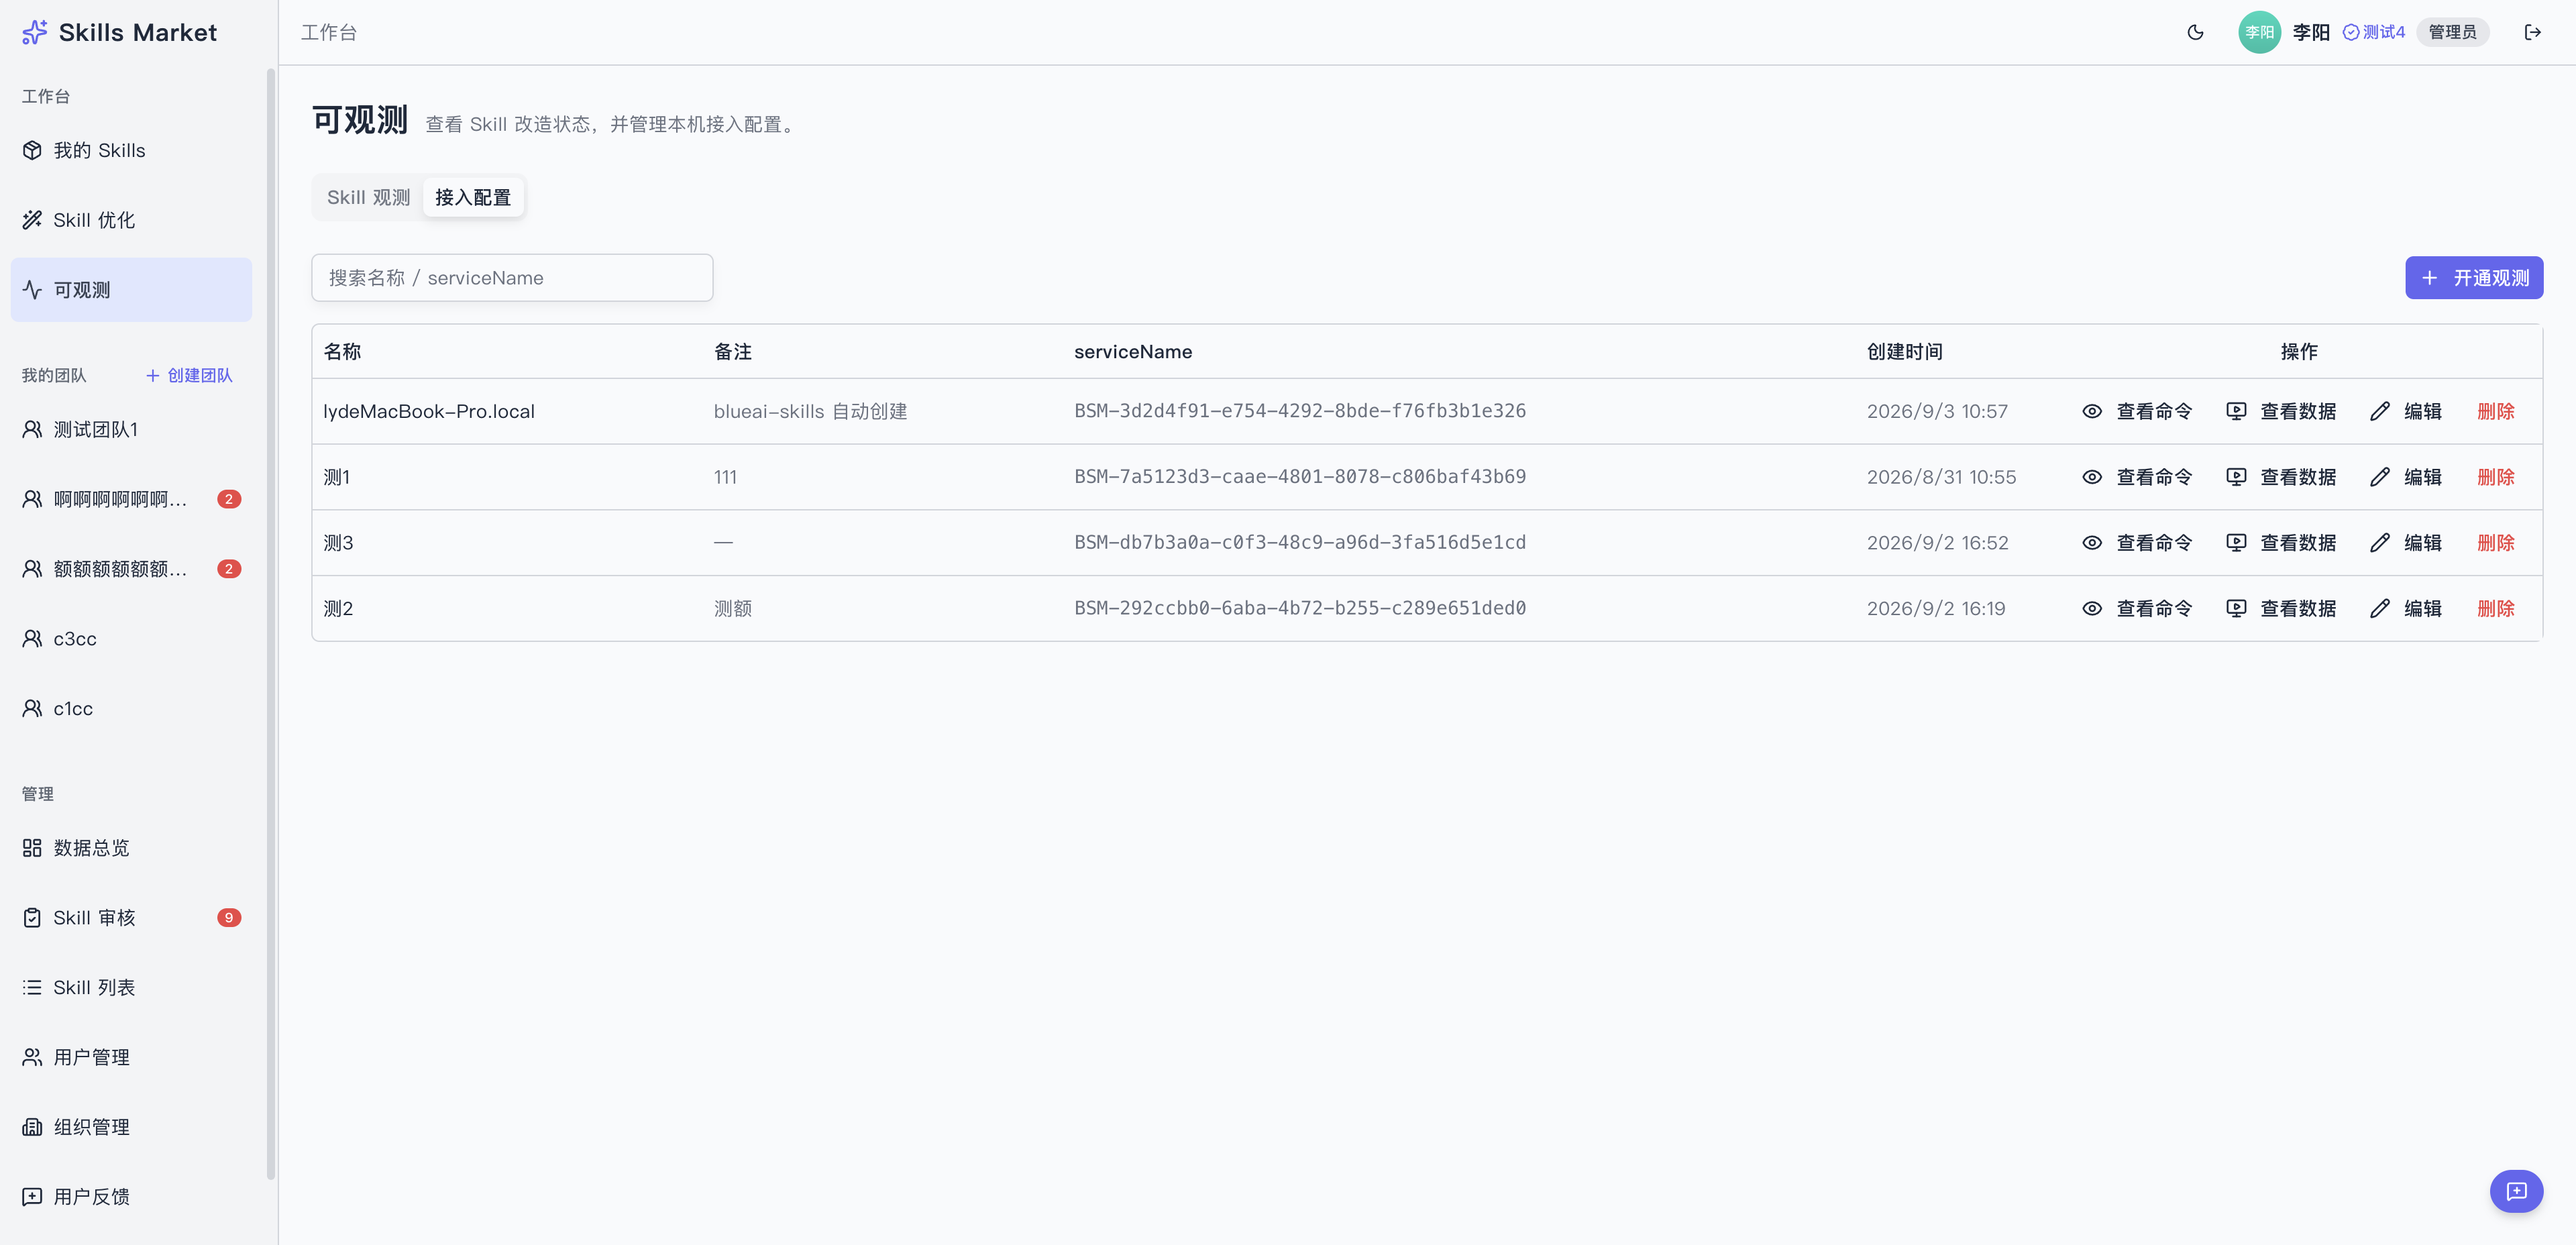
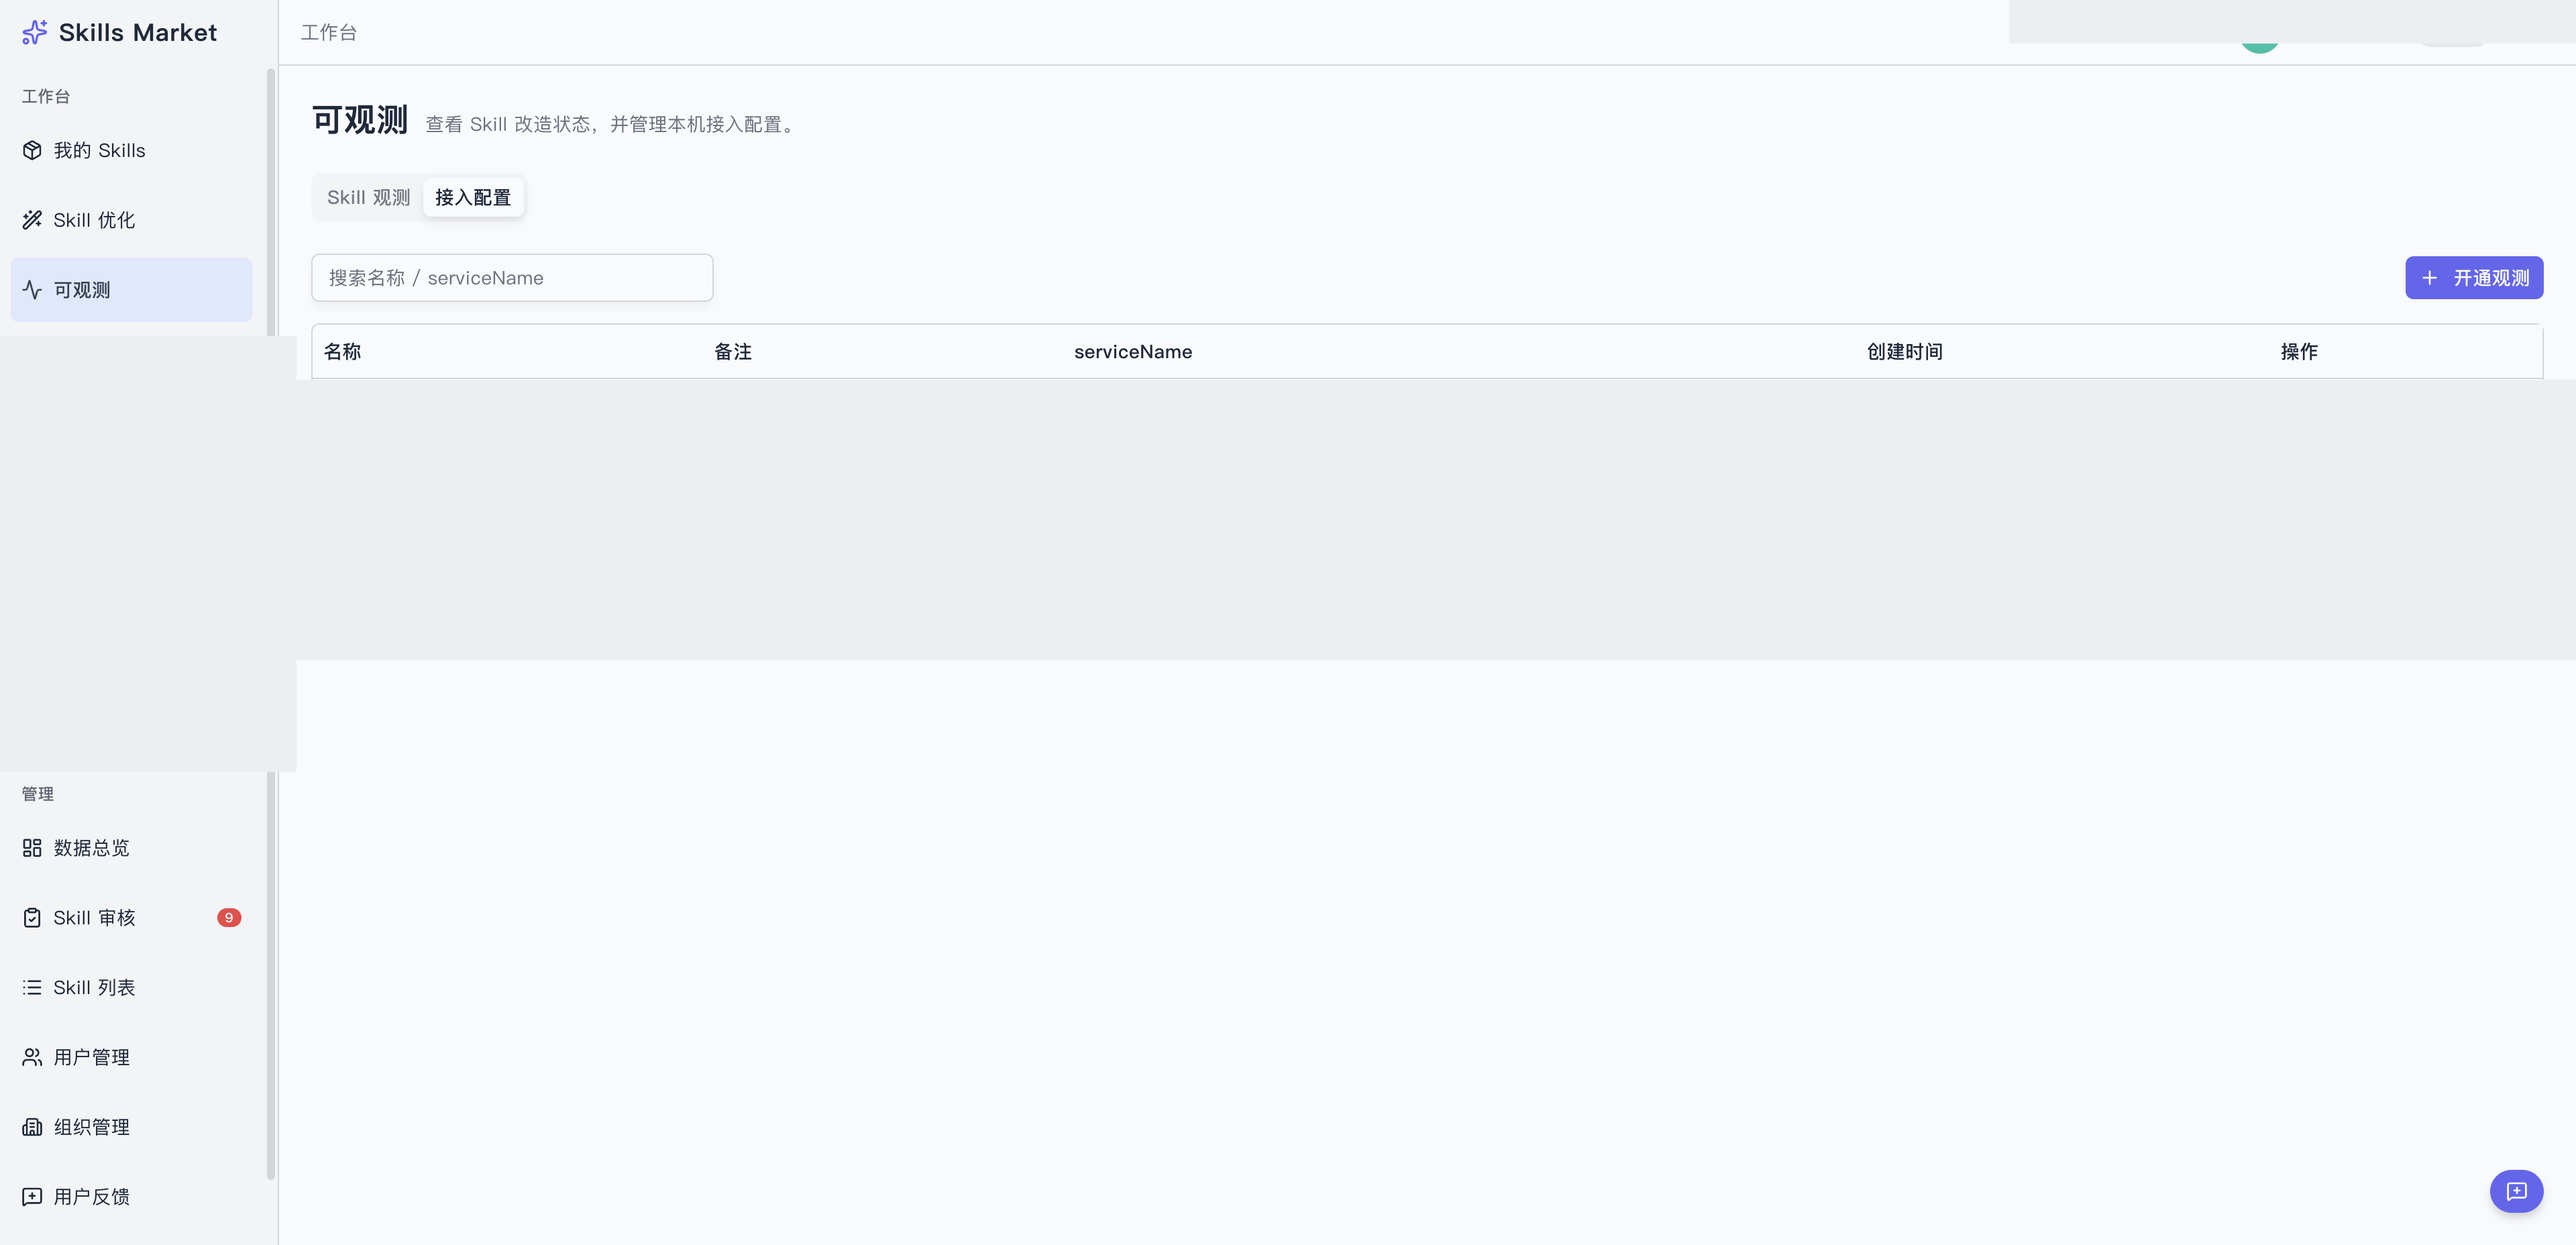
fix(dev-distribution): review-code 反馈修复（1 轮）
- 动机：代码审查发现新增截图含真实主机名、serviceName、团队名与登录身份，而仓库的 GitHub 镜像 `FE-runner/skills` 是 public。
- 改动：对截图做遮罩（表格数据行、侧边栏团队区、右上角身份），仅保留页面结构并标注“数据行已脱敏”；修正 tasks 中两处验证口径（主 spec 的隔离 requirement 由归档时应用 delta 移除、文档刻意保留两处迁移说明）；`CLAUDE.md` 精确说明凭证与锁路径集中在 `src/paths.ts`。
- 影响：飞书文档以脱敏图重传（revision 11）；运行时行为无变化。审查提出的 `src/remove.ts` 清理路径问题经取证为本 change 之前既有的实现（`git show 7be51ef^:src/remove.ts` 逐字一致），未在本次修改，留作独立议题。

Change-Stage: review-code-fix
Change-Name: cli-dev-market-only

diff --git a/openspec/changes/cli-dev-market-only/tasks.md b/openspec/changes/cli-dev-market-only/tasks.md
@@ -17,10 +17,10 @@
 
 - [x] 3.1 更新 `README.md` 的"开发版（内测）"章节：删除状态隔离段落，改为"开发版只改市场端点与提示 tag，本地状态与正式版一致"，并补充共用状态的三条已知影响
 - [x] 3.2 更新 `CLAUDE.md` 开发版章节：删除状态根路径说明，改为开发版仅覆盖市场端点与 npx tag
-- [x] 3.3 更新 `DEV_VERSION_USAGE.md`：清理全部隔离 / 状态根表述——开头正式版对照表的状态行、"状态隔离说明"小节、环境变量表（移除 `BLUEAI_SKILLS_HOME` / `BLUEAI_SKILLS_DEV`）、常见问题两条、维护者登录说明、相关实现表；验证 `rg -n "状态隔离|状态根|BLUEAI_SKILLS" DEV_VERSION_USAGE.md` 无残留
+- [x] 3.3 更新 `DEV_VERSION_USAGE.md`：清理全部隔离 / 状态根表述——开头正式版对照表的状态行、"状态隔离说明"小节、环境变量表（移除 `BLUEAI_SKILLS_HOME` / `BLUEAI_SKILLS_DEV`）、常见问题两条、维护者登录说明、相关实现表；验证 `rg -n "状态隔离|状态根|BLUEAI_SKILLS" DEV_VERSION_USAGE.md` 仅命中刻意保留的两处（"两个变量已移除"与"旧状态根目录不再读取"），无其他残留
 - [x] 3.4 更新 `CHANGELOG.md`：记录开发版隔离范围收窄为市场端点，并标注两个环境变量移除
-- [x] 3.5 直接更新 `openspec/specs/cli-dev-distribution/spec.md` 的 Purpose：删除"以独立状态根隔离本地凭证与安装状态"表述，改为"开发版仅覆盖市场端点与命令提示 tag，其余本地状态与正式版一致"；验证该主 spec 中不再出现"状态根"字样
-- [x] 3.6 直接更新 `openspec/specs/cli-skill-collection-consent/spec.md` 的 Purpose：把"开发隔离模式下为状态根下的同名文件"改为"开发版与正式版复用同一份全局锁文件"；验证该主 spec 中不再出现"状态根"字样
+- [x] 3.5 直接更新 `openspec/specs/cli-dev-distribution/spec.md` 的 Purpose：删除"以独立状态根隔离本地凭证与安装状态"表述，改为"开发版只覆盖默认市场端点与命令提示 tag，其余本地状态与路径行为同正式版"；验证 Purpose 段落已更新（隔离相关 requirement 的移除由归档时应用本 change 的 delta 完成，主 spec 在归档前仍保留旧 requirement）
+- [x] 3.6 直接更新 `openspec/specs/cli-skill-collection-consent/spec.md` 的 Purpose：把"开发隔离模式下为状态根下的同名文件"改为"开发版与正式版一致"；验证 Purpose 段落已更新（`track 命令组` / `不新建文件` 的路径措辞由归档时应用 delta 完成）
 - [x] 3.7 同步飞书使用文档（`https://bluefocus.feishu.cn/docx/HnaPdt7Lzoha6ixr9e9c5aT1ngb`）：把状态隔离相关段落改为"与正式版共用本地状态，开发版只改市场端点与提示 tag"，并移除两个已删除环境变量的说明；验证回查文档大纲与正文不再出现"状态隔离 / 状态根"
 - [x] 3.8 补充测试市场网页端用法：在 `DEV_VERSION_USAGE.md`、`README.md` 与飞书文档中写入市场入口 `https://blueai-skills-market.domob-inc.cn` 与可观测页面 `.../dashboard/observability` 的用途，并附上「可观测 → 接入配置」界面截图（仓库内 `assets/dev-market-observability.png`）；验证飞书回查存在该章节与图片 block
 

diff --git a/CLAUDE.md b/CLAUDE.md
@@ -286,7 +286,7 @@ pnpm publish:dev                # 生成 dev-v<版本> 标签并推送到 old-or
 - 触发方式：推送 `dev-v*` 标签后由 `.github/workflows/publish.yml` 以 `SKILLS_BUILD_TARGET=dev` 构建、`npm publish --tag dev` 发布；`v*` 仍走 `--tag latest`，两类标签互不匹配。
 - 仅改 `publish.yml` 的 dev 分支时不需要先动 `master`：标签推送使用被推送提交上的工作流文件；但改动必须先提交到被标记的 commit。
 - 开发版构建默认市场为内网 `https://blueai-skills-market.domob-inc.cn`，npx 提示为 `@dev`（见 `src/branding.ts` 与 `build.config.mjs`）。
-- 与正式版的差异只有两处：默认市场地址、提示中的 npx tag。凭证（`~/.blueai/secrets.json`）、全局锁（`~/.agents/.skill-lock.json`，或 `$XDG_STATE_HOME/skills/.skill-lock.json`）、canonical 目录（`~/.agents/skills`）与真实 agent 目录均与正式版共用，开发版装的技能可被 Claude / Codex 直接读取；Pilot 仍用 `~/.loongsuite-pilot`。路径集中在 `src/paths.ts`。
+- 与正式版的差异只有两处：默认市场地址、提示中的 npx tag。凭证（`~/.blueai/secrets.json`）、全局锁（`~/.agents/.skill-lock.json`，或 `$XDG_STATE_HOME/skills/.skill-lock.json`）、canonical 目录（`~/.agents/skills`）与真实 agent 目录均与正式版共用，开发版装的技能可被 Claude / Codex 直接读取；Pilot 仍用 `~/.loongsuite-pilot`。凭证与全局锁路径集中在 `src/paths.ts`，技能目录仍在 `src/installer.ts` 与 `src/agents.ts`。
 - 共用状态的三条已知影响：两个市场 `skillId` 不互通（正式版 `check` 对开发版装的技能匹配不上）、同名技能互相覆盖、登录态共享（切市场需重新 `login` 或用 `SKILLS_API_KEY`）。
 - 开发者用法：`npx --yes blueai-skills@dev`；回正式版：`npx --yes blueai-skills@latest`。
 

diff --git a/openspec/changes/cli-dev-market-only/context.md b/openspec/changes/cli-dev-market-only/context.md
@@ -37,5 +37,5 @@
 - 测试：删除 `tests/dev-isolation.test.ts`；`src/paths.test.ts` 收缩为凭证目录 / 全局锁路径断言，并新增“已移除的隔离开关不再影响任何路径”用例。
 - 按 design D7 直接修正两个主 spec 的 Purpose（`cli-dev-distribution`、`cli-skill-collection-consent`）。
 - 文档：`README.md`、`CLAUDE.md`、`CHANGELOG.md`、`DEV_VERSION_USAGE.md` 已同步；新增「测试市场（网页端）」章节，写入市场入口与可观测页面 `.../dashboard/observability` 的用途，并附界面截图（`assets/dev-market-observability.png`）。飞书文档以 `overwrite` 重写（revision 8，含图片 block，无 warning），回查确认仅保留“变量已移除”与“旧状态根目录不再读取”两处刻意提及。
-- 披露风险（待用户确认）：截图含真实主机名、serviceName（BSM-…）与团队名称；仓库的 GitHub 镜像 `FE-runner/skills` 是 public，若把该图片随 `develop` 推到该镜像会公开这些信息。本次仅本地提交，未 push。
+- 截图脱敏（review-code Critical 修复）：原截图含真实主机名、serviceName（BSM-…）、团队名与右上角身份；仓库的 GitHub 镜像 `FE-runner/skills` 是 public。已用遮罩处理表格数据行、侧边栏团队区与右上角身份，仅保留页面结构（标题、标签页、搜索、开通观测按钮、表格列名），并更新文档说明为"数据行已脱敏"。本次仅本地提交，未 push。
 - 验证结果：`pnpm test` 531 passed；`pnpm type-check`、`pnpm format:check` 通过；dev 构建产物含 `domob-inc.cn` 与 `@dev` 且无 `BLUEAI_SKILLS_DEV_BUILD` / 状态根引用，正式构建产物含 `bluemediagroup.cn` 与 `@latest`；同一命令在 dev / prod 构建下的 HOME 文件树 `diff` 为空；状态根目录不再生成。

diff --git a/DEV_VERSION_USAGE.md b/DEV_VERSION_USAGE.md
@@ -78,9 +78,9 @@ npx --yes blueai-skills@latest <命令>
 
 网页与 CLI 都需要能访问内网（必要时连 VPN），登录使用测试市场的账号。
 
-![测试市场 · 可观测 · 接入配置](./assets/dev-market-observability.png)
+![测试市场 · 可观测 · 接入配置（数据行已脱敏）](./assets/dev-market-observability.png)
 
-上图为「可观测 → 接入配置」的界面：左侧进入可观测，右上角「开通观测」新建接入，列表里可对每条接入执行查看命令、查看数据、编辑、删除。
+上图为「可观测 → 接入配置」的界面（截图中的接入数据行、团队名与右上角身份已脱敏）：左侧进入可观测，右上角「开通观测」新建接入，列表里可对每条接入执行查看命令、查看数据、编辑、删除。
 
 ## 环境变量
 
